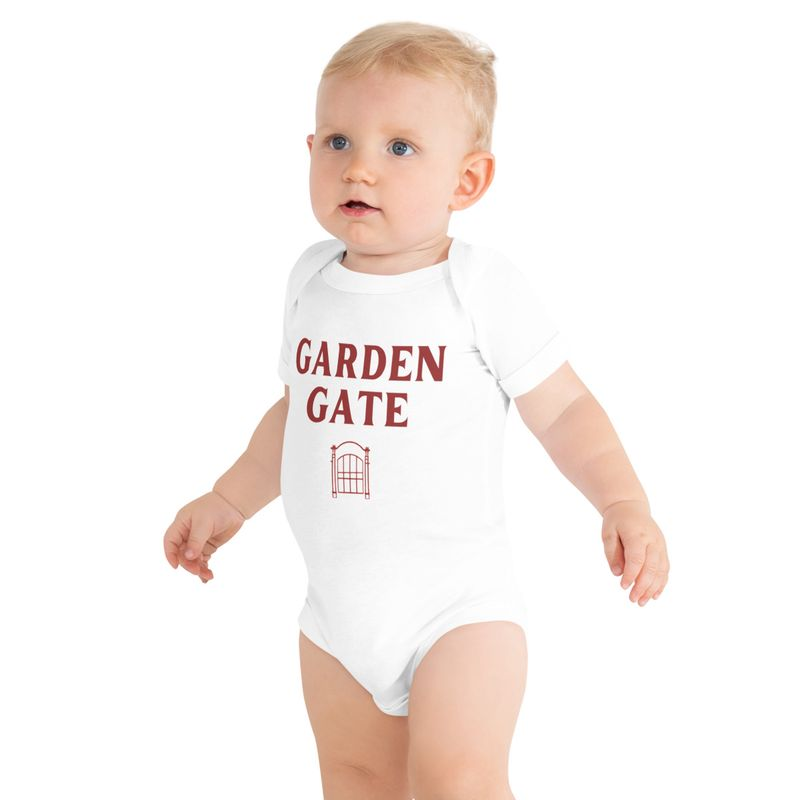
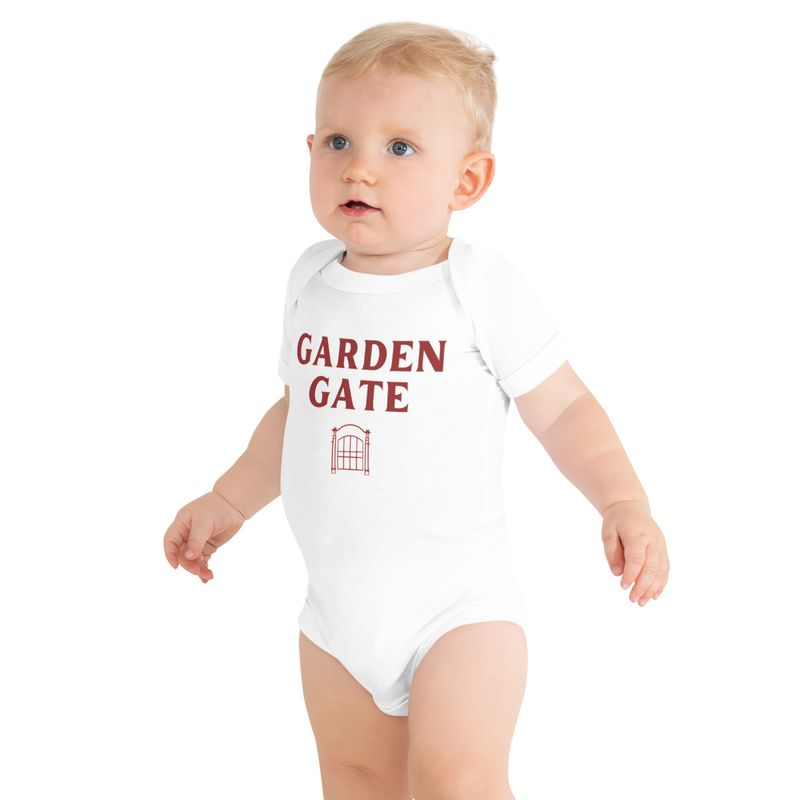
fix(storefront): replace six on-model photos at true proportion
Ya Habayeb loses the gym background and Ya Teta uses a different child.
The other four keep their models with the artwork back in proportion.
These six cache keys move to 3. Hat keys stay where they are.

Changed region(s): [[0.3438, 0.4062, 0.5625, 0.625]]

diff --git a/site/product-khalas-habibi.html b/site/product-khalas-habibi.html
@@ -92,7 +92,7 @@
                aria-label="Rotate Khalas Habibi">
       </div>
     </div>
-      <img class="shot-photo" src="assets/on-model/khalas-habibi.jpg?v=2" alt="Khalas Habibi tee, worn" loading="lazy" decoding="async">
+      <img class="shot-photo" src="assets/on-model/khalas-habibi.jpg?v=3" alt="Khalas Habibi tee, worn" loading="lazy" decoding="async">
       <fieldset class="shot-switch">
         <legend class="sr-only">Product photos</legend>
         <label class="shot-thumb">
@@ -101,7 +101,7 @@
         </label>
         <label class="shot-thumb">
           <input type="radio" name="shot-khalas-habibi" data-shot-photo aria-label="Khalas Habibi tee, worn">
-          <img src="assets/on-model/khalas-habibi.jpg?v=2" alt="" width="800" height="800" loading="lazy" decoding="async">
+          <img src="assets/on-model/khalas-habibi.jpg?v=3" alt="" width="800" height="800" loading="lazy" decoding="async">
         </label>
       </fieldset>
     </div>

diff --git a/site/product-garden-gate.html b/site/product-garden-gate.html
@@ -92,7 +92,7 @@
                aria-label="Rotate Garden Gate">
       </div>
     </div>
-      <img class="shot-photo" src="assets/on-model/garden-gate.jpg?v=2" alt="Garden Gate onesie, worn" loading="lazy" decoding="async">
+      <img class="shot-photo" src="assets/on-model/garden-gate.jpg?v=3" alt="Garden Gate onesie, worn" loading="lazy" decoding="async">
       <fieldset class="shot-switch">
         <legend class="sr-only">Product photos</legend>
         <label class="shot-thumb">
@@ -101,7 +101,7 @@
         </label>
         <label class="shot-thumb">
           <input type="radio" name="shot-garden-gate" data-shot-photo aria-label="Garden Gate onesie, worn">
-          <img src="assets/on-model/garden-gate.jpg?v=2" alt="" width="800" height="800" loading="lazy" decoding="async">
+          <img src="assets/on-model/garden-gate.jpg?v=3" alt="" width="800" height="800" loading="lazy" decoding="async">
         </label>
       </fieldset>
     </div>

diff --git a/site/product-warm-embrace.html b/site/product-warm-embrace.html
@@ -92,7 +92,7 @@
                aria-label="Rotate Warm Embrace">
       </div>
     </div>
-      <img class="shot-photo" src="assets/on-model/warm-embrace.jpg?v=2" alt="Warm Embrace tee, worn" loading="lazy" decoding="async">
+      <img class="shot-photo" src="assets/on-model/warm-embrace.jpg?v=3" alt="Warm Embrace tee, worn" loading="lazy" decoding="async">
       <fieldset class="shot-switch">
         <legend class="sr-only">Product photos</legend>
         <label class="shot-thumb">
@@ -101,7 +101,7 @@
         </label>
         <label class="shot-thumb">
           <input type="radio" name="shot-warm-embrace" data-shot-photo aria-label="Warm Embrace tee, worn">
-          <img src="assets/on-model/warm-embrace.jpg?v=2" alt="" width="800" height="800" loading="lazy" decoding="async">
+          <img src="assets/on-model/warm-embrace.jpg?v=3" alt="" width="800" height="800" loading="lazy" decoding="async">
         </label>
       </fieldset>
     </div>

diff --git a/site/product-ya-habayeb.html b/site/product-ya-habayeb.html
@@ -92,7 +92,7 @@
                aria-label="Rotate Ya Habayeb">
       </div>
     </div>
-      <img class="shot-photo" src="assets/on-model/ya-habayeb.jpg?v=2" alt="Ya Habayeb tee, worn" loading="lazy" decoding="async">
+      <img class="shot-photo" src="assets/on-model/ya-habayeb.jpg?v=3" alt="Ya Habayeb tee, worn" loading="lazy" decoding="async">
       <fieldset class="shot-switch">
         <legend class="sr-only">Product photos</legend>
         <label class="shot-thumb">
@@ -101,7 +101,7 @@
         </label>
         <label class="shot-thumb">
           <input type="radio" name="shot-ya-habayeb" data-shot-photo aria-label="Ya Habayeb tee, worn">
-          <img src="assets/on-model/ya-habayeb.jpg?v=2" alt="" width="800" height="800" loading="lazy" decoding="async">
+          <img src="assets/on-model/ya-habayeb.jpg?v=3" alt="" width="800" height="800" loading="lazy" decoding="async">
         </label>
       </fieldset>
     </div>

diff --git a/site/product-ya-teta.html b/site/product-ya-teta.html
@@ -92,7 +92,7 @@
                aria-label="Rotate Ya Teta">
       </div>
     </div>
-      <img class="shot-photo" src="assets/on-model/ya-teta.jpg?v=2" alt="Ya Teta onesie, worn" loading="lazy" decoding="async">
+      <img class="shot-photo" src="assets/on-model/ya-teta.jpg?v=3" alt="Ya Teta onesie, worn" loading="lazy" decoding="async">
       <fieldset class="shot-switch">
         <legend class="sr-only">Product photos</legend>
         <label class="shot-thumb">
@@ -101,7 +101,7 @@
         </label>
         <label class="shot-thumb">
           <input type="radio" name="shot-ya-teta" data-shot-photo aria-label="Ya Teta onesie, worn">
-          <img src="assets/on-model/ya-teta.jpg?v=2" alt="" width="800" height="800" loading="lazy" decoding="async">
+          <img src="assets/on-model/ya-teta.jpg?v=3" alt="" width="800" height="800" loading="lazy" decoding="async">
         </label>
       </fieldset>
     </div>

diff --git a/site/product-amoura.html b/site/product-amoura.html
@@ -92,7 +92,7 @@
                aria-label="Rotate Amoura">
       </div>
     </div>
-      <img class="shot-photo" src="assets/on-model/amoura.jpg?v=2" alt="Amoura onesie, worn" loading="lazy" decoding="async">
+      <img class="shot-photo" src="assets/on-model/amoura.jpg?v=3" alt="Amoura onesie, worn" loading="lazy" decoding="async">
       <fieldset class="shot-switch">
         <legend class="sr-only">Product photos</legend>
         <label class="shot-thumb">
@@ -101,7 +101,7 @@
         </label>
         <label class="shot-thumb">
           <input type="radio" name="shot-amoura" data-shot-photo aria-label="Amoura onesie, worn">
-          <img src="assets/on-model/amoura.jpg?v=2" alt="" width="800" height="800" loading="lazy" decoding="async">
+          <img src="assets/on-model/amoura.jpg?v=3" alt="" width="800" height="800" loading="lazy" decoding="async">
         </label>
       </fieldset>
     </div>

diff --git a/api/__tests__/on-model-photos.test.js b/api/__tests__/on-model-photos.test.js
@@ -11,6 +11,12 @@ const ON_MODEL_V_OVERRIDE = {
   'habibi-crafts-hat': '5',
   'leaf-season-hat': '3',
   'make-something-hat': '3',
+  'khalas-habibi': '3',
+  'ya-habayeb': '3',
+  'warm-embrace': '3',
+  'garden-gate': '3',
+  'amoura': '3',
+  'ya-teta': '3',
 };
 const PHRASE = {
   tees: 'tee, worn',

diff --git a/pipeline/storefront.py b/pipeline/storefront.py
@@ -62,10 +62,17 @@ HAT_COLOR = {
 ON_MODEL_V = '2'
 # Hats were already at 2 when this refresh landed, so they moved to 3.
 # habibi-crafts-hat moved again after the first two files were rejected.
+# These six files were replaced again, so their cache key moves off the default.
 ON_MODEL_V_OVERRIDE = {
     'habibi-crafts-hat': '5',
     'leaf-season-hat': '3',
     'make-something-hat': '3',
+    'khalas-habibi': '3',
+    'ya-habayeb': '3',
+    'warm-embrace': '3',
+    'garden-gate': '3',
+    'amoura': '3',
+    'ya-teta': '3',
 }
 ON_MODEL = {
     'tees': 'tee, worn',
